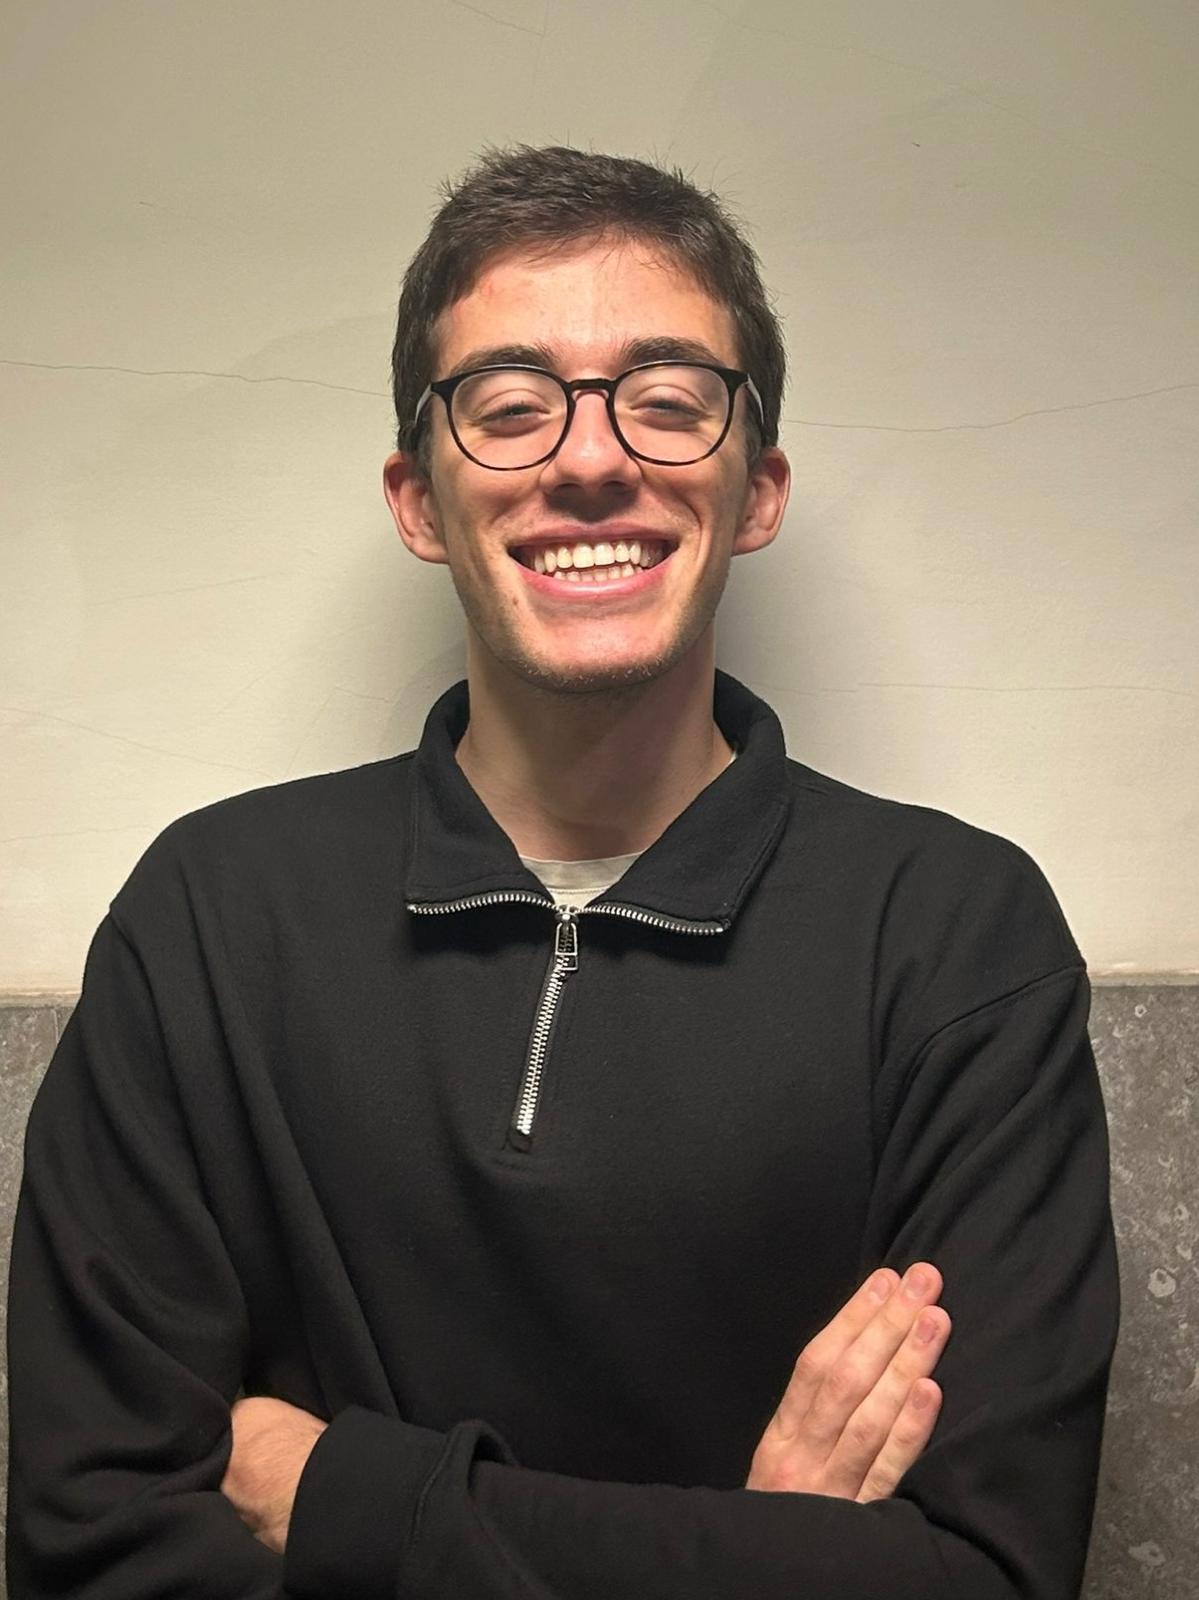
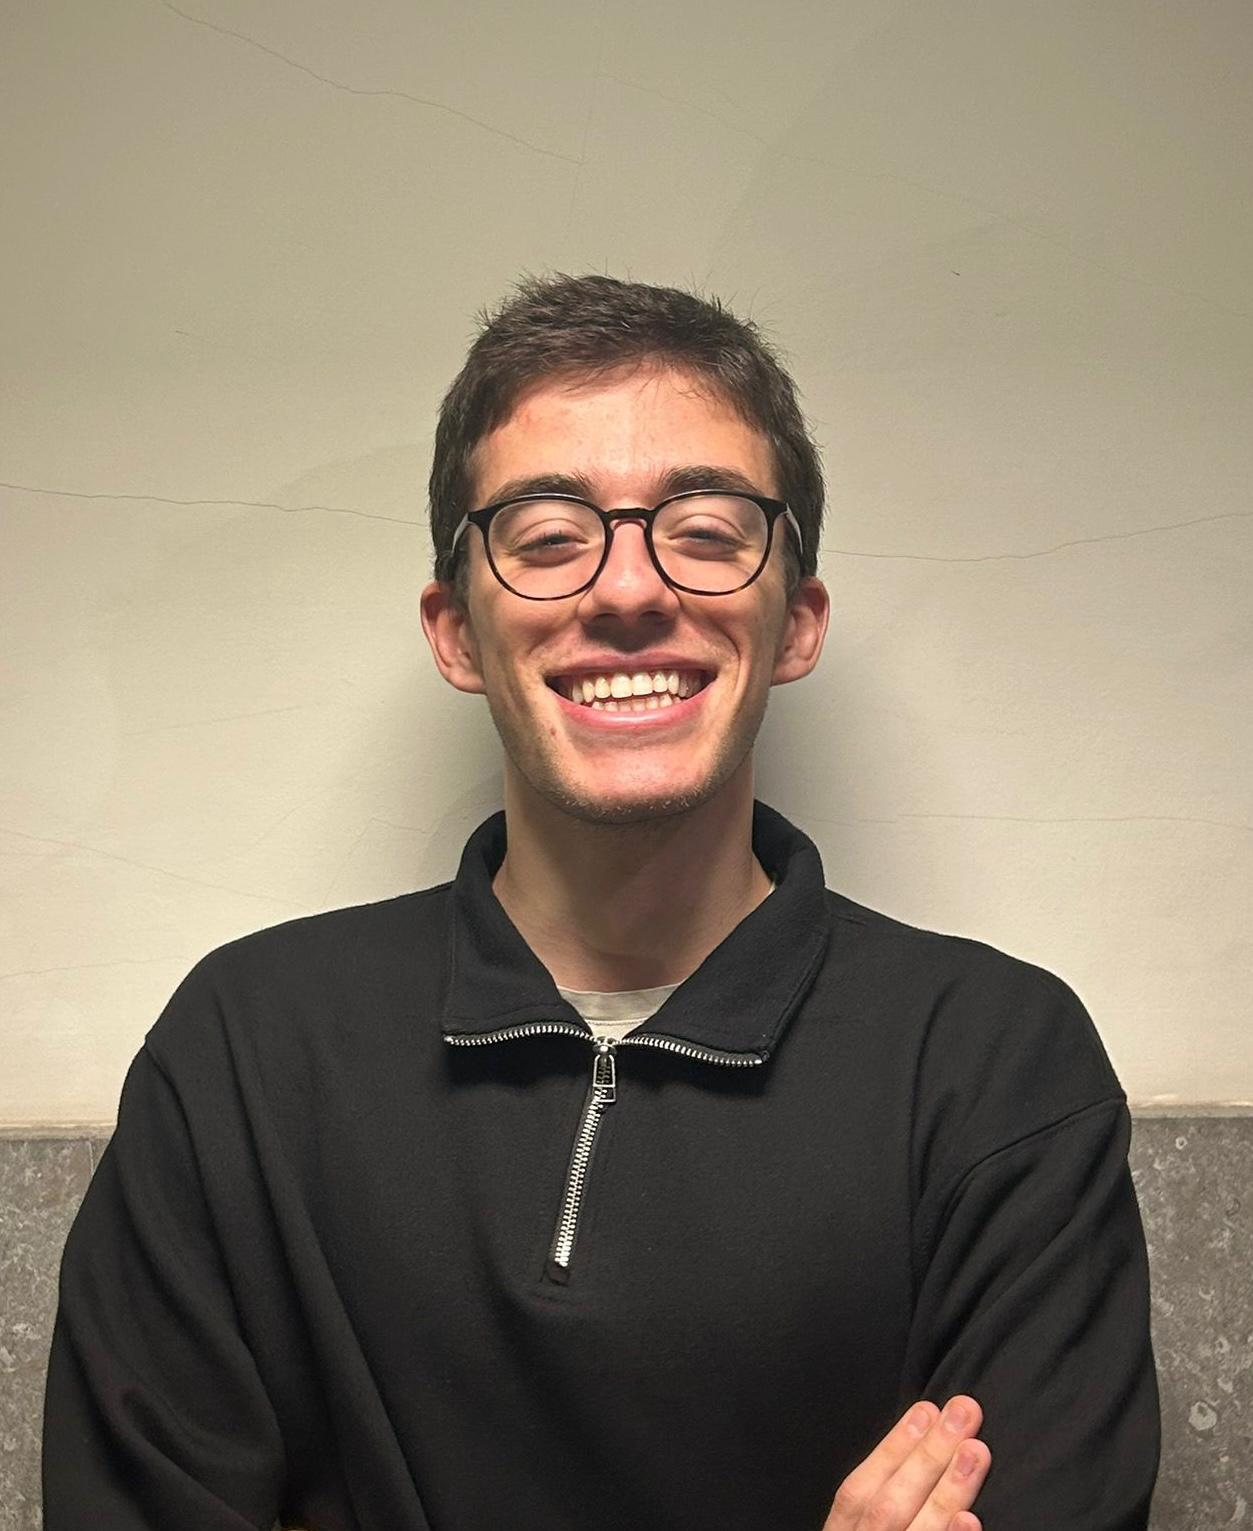
Endireitei as fotos e editei o texto

diff --git a/style-v2.css b/style-v2.css
@@ -588,6 +588,7 @@ header div.find-out-more a {
     text-align: center;
     margin-top: 30px;
 }
+/*
 #meet-our-members-title h1::after {
     display: block;
     position: relative;
@@ -599,6 +600,7 @@ header div.find-out-more a {
     background: white;
     border-radius: var(--width-lines);
 }
+    */
 #meet-our-members-title h1 img {
     position: relative;
     top: 10px;
@@ -739,7 +741,7 @@ header div.find-out-more a {
     background-image: url('img/members/Sara.jpeg');
 }
 #meet-our-members #member-10 {
-    background-image: url('img/members/Balsâmico.jpeg');
+    background-image: url('img/members/Balsamico.jpeg');
 }
 
 /* Responsive adjustments */

diff --git a/index-pt.html b/index-pt.html
@@ -182,7 +182,7 @@
         <section id="meet-our-members-title">
             <h1>
                 <img class="info" src="icons/members.svg" alt="Icon representing people">
-                Conhece os nossos membros
+                Conhece a nossa Direção
             </h1>
 
         </section>

diff --git a/index.html b/index.html
@@ -177,7 +177,7 @@
         <section id="meet-our-members-title">
             <h1>
                 <img class="info" src="icons/members.svg" alt="Icon representing people">
-                Meet our members
+                Meet our Management
             </h1>
 
         </section>
